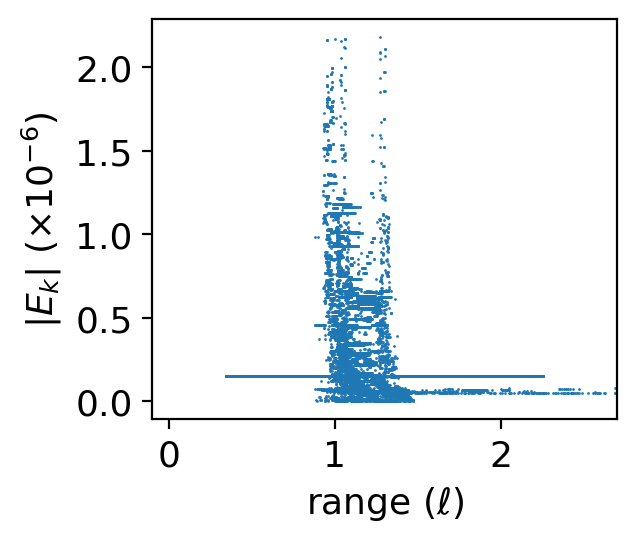
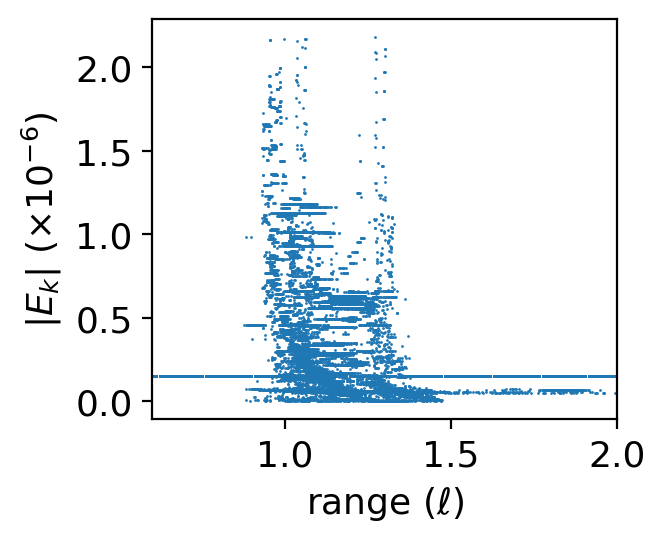
fig 1: two bounces, range window d +/- r/2
Claude-Session: https://claude.ai/code/session_01GGmVrkSgyd4LF9qZZbmMeN

diff --git a/sar_overview_figure.py b/sar_overview_figure.py
@@ -5,7 +5,8 @@ Figure 1 of the paper: one srn_cars pose rendered in spotlight-mode SAR at the p
   (c) first-hit range of each ray    (d) first-bounce return weight E_k of each ray
   (e) energy-range scatter           (f) interposummed signal magnitude
 
-(c)-(f) are one pulse. The paper panels are saved one png each for latex's subfloats; -gif
+(c)-(f) are one pulse, traced with two bounces, and (e)-(f) show the sensor distance +/- half the
+region radius. The paper panels are saved one png each for latex's subfloats; -gif
 instead draws the same six panels on one frame per pulse, on limits shared by all the pulses.
 
     python sar_overview_figure.py
@@ -39,8 +40,9 @@ PANEL_SIZE = (3.0, 2.6)  # inches, one paper panel
 FONT_SIZE  = 13          # readable at 0.3 of the paper's text width
 
 
-def render(obj_id, pose_num, baseline=SAR_PAPER_BASELINE, seed=0):
+def render(obj_id, pose_num, baseline=SAR_PAPER_BASELINE, seed=0, num_bounce=2):
     '''Render the pose once and return everything the panels draw, as numpy.'''
+    baseline = {**baseline, 'num_bounce': num_bounce}
     torch.manual_seed(seed)
     np.random.seed(seed)
     object_dir = os.path.join(_find_split_dir(obj_id), obj_id)
@@ -57,6 +59,10 @@ def render(obj_id, pose_num, baseline=SAR_PAPER_BASELINE, seed=0):
     P = pulses['trajectory'].shape[1]
     maps = [pulses['debugging_maps'][(0, p)] for p in range(P)]
     depth = np.stack([m['depth'].cpu().numpy() for m in maps])                  # (P,H,W)
+    returns = sum(r.numel() for r in pulses['ranges'][0])
+    first_hits = int(sum((m['depth'] >= 0).sum() for m in maps))
+    print('%d bounces: %d returns from %d first hits over %d pulses, %.0f%% from later bounces'
+          % (num_bounce, returns, first_hits, P, 100 * (1 - first_hits / returns)))
     return dict(
         rgb    = np.array(PIL.Image.open(os.path.join(object_dir, 'rgb', f'{pose_num}.png')))[..., :3],
         sar    = sar[0].detach().cpu().numpy(),                                 # (H,W)
@@ -66,6 +72,8 @@ def render(obj_id, pose_num, baseline=SAR_PAPER_BASELINE, seed=0):
         scatter_energy = [e.abs().cpu().numpy() for e in pulses['energies'][0]],
         signal   = pulses['signals'][0].abs().cpu().numpy(),                    # (P,Z)
         sample_z = pulses['sample_z'][0].cpu().numpy(),                         # (P,Z)
+        sensor_distance = pulses['trajectory'][0].norm(dim=-1).cpu().numpy(),   # (P,)
+        half_window = baseline['region_radius'] / 2,
         grid   = (baseline['grid_width'], baseline['grid_height']),
         plane  = (baseline['image_plane_width'], baseline['image_plane_height']),
         display = {k: baseline[k] for k in ('compression', 'db_floor', 'asinh_k_ratio')},
@@ -75,15 +83,30 @@ def render(obj_id, pose_num, baseline=SAR_PAPER_BASELINE, seed=0):
 def limits(data, pulses):
     '''Color and axis limits covering the given pulses, so the gif's frames share one scale.'''
     energy = data['energy'][pulses]
+    scatter_max = max(data['scatter_energy'][p][_in_window(data, p, data['scatter_range'][p])].max()
+                      for p in pulses)
+    signal_max = max(data['signal'][p][_in_window(data, p, data['sample_z'][p])].max()
+                     for p in pulses)
     return dict(
         depth  = (np.nanmin(data['depth'][pulses]), np.nanmax(data['depth'][pulses])),
         energy = np.percentile(energy, 99.9),
         energy_power = _power(energy.max()),
-        scatter_power = _power(max(data['scatter_energy'][p].max() for p in pulses)),
-        scatter_max = max(data['scatter_energy'][p].max() for p in pulses),
-        signal_power = _power(data['signal'][pulses].max()),
-        signal_max = data['signal'][pulses].max(),
+        scatter_power = _power(scatter_max),
+        scatter_max = scatter_max,
+        signal_power = _power(signal_max),
+        signal_max = signal_max,
     )
+
+
+def _window(data, p):
+    '''Range shown in (e) and (f): the sensor distance +/- half the region radius.'''
+    d = data['sensor_distance'][p]
+    return d - data['half_window'], d + data['half_window']
+
+
+def _in_window(data, p, z):
+    lo, hi = _window(data, p)
+    return (z >= lo) & (z <= hi)
 
 
 def _power(peak):
@@ -130,11 +153,10 @@ def draw_energy(fig, ax, data, p, lim):
 
 
 def draw_scatter(fig, ax, data, p, lim):
-    # the far multipath returns fall outside the signal window, so the axis stops where it does
     scale = 10.0 ** lim['scatter_power']
     ax.scatter(data['scatter_range'][p], data['scatter_energy'][p] / scale, s=1, linewidths=0,
                rasterized=True)
-    ax.set_xlim(data['sample_z'][p, 0], data['sample_z'][p, -1])
+    ax.set_xlim(*_window(data, p))
     ax.set_ylim(-0.05 * lim['scatter_max'] / scale, 1.05 * lim['scatter_max'] / scale)
     ax.set_xlabel(r'range ($\ell$)')
     ax.set_ylabel(_scale_label(r'$|E_k|$', lim['scatter_power']))
@@ -143,7 +165,7 @@ def draw_scatter(fig, ax, data, p, lim):
 def draw_signal(fig, ax, data, p, lim):
     scale = 10.0 ** lim['signal_power']
     ax.plot(data['sample_z'][p], data['signal'][p] / scale)
-    ax.set_xlim(data['sample_z'][p, 0], data['sample_z'][p, -1])
+    ax.set_xlim(*_window(data, p))
     ax.set_ylim(-0.05 * lim['signal_max'] / scale, 1.05 * lim['signal_max'] / scale)
     ax.set_xlabel(r'range ($\ell$)')
     ax.set_ylabel(_scale_label(r'$|s(z)|$', lim['signal_power']))

diff --git a/latex/main.tex b/latex/main.tex
@@ -93,7 +93,7 @@ imaging (Figure \ref{fig:main-fig}.b) can be done.
     \subfloat[\centering]{\includegraphics[width=0.3\textwidth]{figs/sar_overview_scatters.png}}
     \hfill
     \subfloat[\centering]{\includegraphics[width=0.3\textwidth]{figs/sar_overview_signal.png}}
-    \caption{Example of the simulation. (\textbf{a}) RGB image of the ShapeNet \cite{shapenet} car model, (\textbf{b}) spotlight-mode SAR image of the model from our simulation, in range and cross-range about the scene center with the sensor below the image, normalized to its peak, (\textbf{c}) range to the first hit of each ray, in $\ell$, (\textbf{d}) return weight $E_k$ of each ray's first bounce, as a fraction of the transmitted energy, clipped at its 99.9th percentile, (\textbf{e}) energy-range scatter of all returns, (\textbf{f}) signal magnitude calculated via interposummation. Panels (\textbf{c}--\textbf{f}) are the middle pulse of the aperture, with lengths in $\ell$ (Section \ref{sec:units}) and $(x, y)$ the position of each ray on the ray grid.}
+    \caption{Example of the simulation. (\textbf{a}) RGB image of the ShapeNet \cite{shapenet} car model, (\textbf{b}) spotlight-mode SAR image of the model from our simulation, in range and cross-range about the scene center with the sensor below the image, normalized to its peak, (\textbf{c}) range to the first hit of each ray, in $\ell$, (\textbf{d}) return weight $E_k$ of each ray's first bounce, as a fraction of the transmitted energy, clipped at its 99.9th percentile, (\textbf{e}) energy-range scatter of the returns of both bounces, (\textbf{f}) signal magnitude calculated via interposummation, with (\textbf{e},\textbf{f}) spanning the sensor distance $\pm 0.7\ell$, half of \texttt{region\_radius} (Table \ref{tab:params}). Panels (\textbf{c}--\textbf{f}) are the middle pulse of the aperture, with lengths in $\ell$ (Section \ref{sec:units}) and $(x, y)$ the position of each ray on the ray grid.}
     \label{fig:main-fig}
 \end{figure}
 
